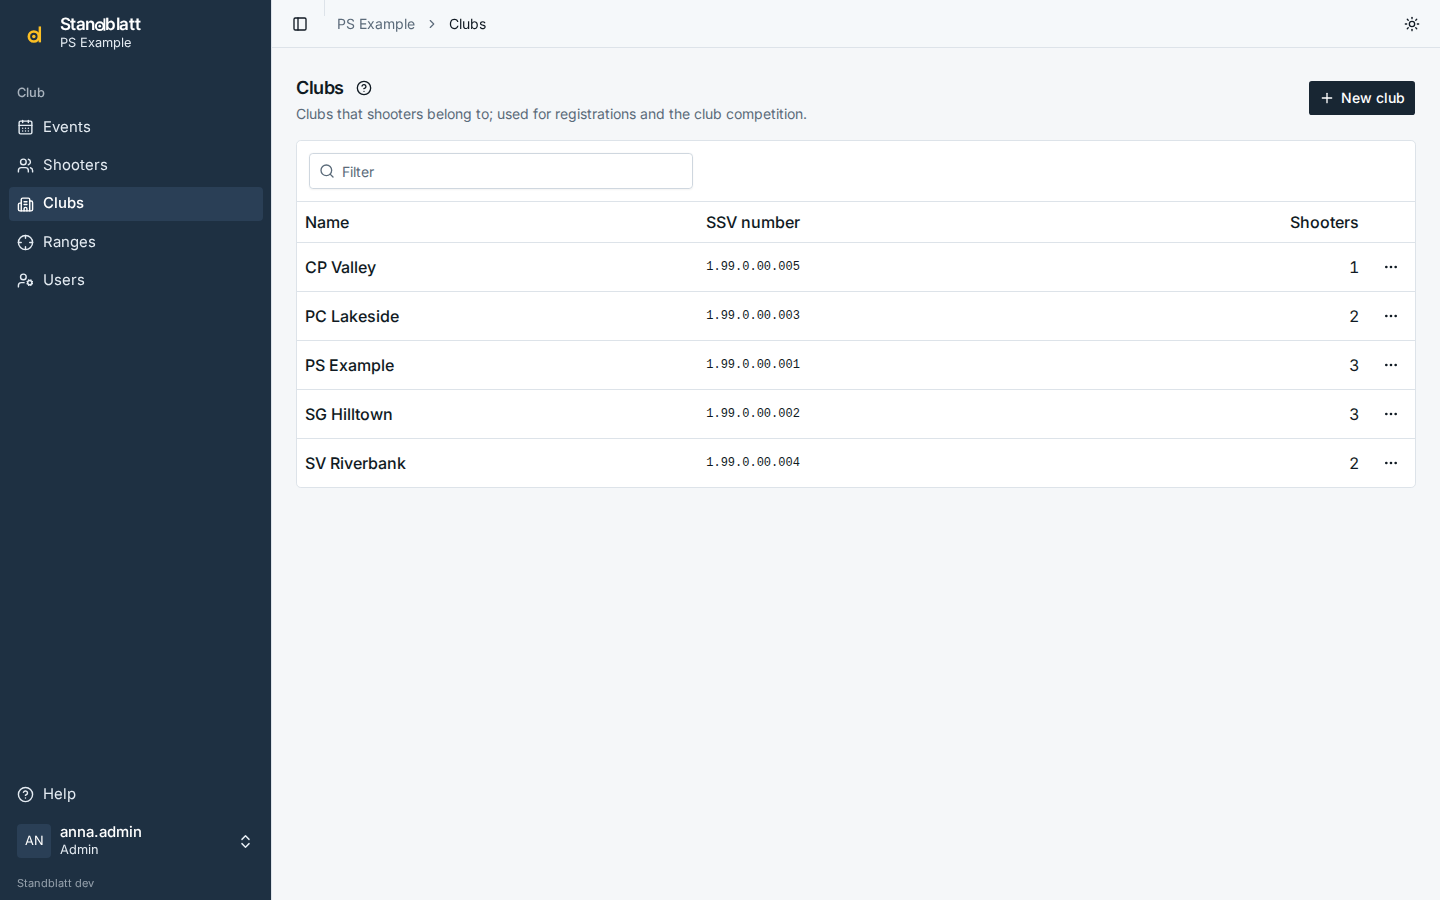
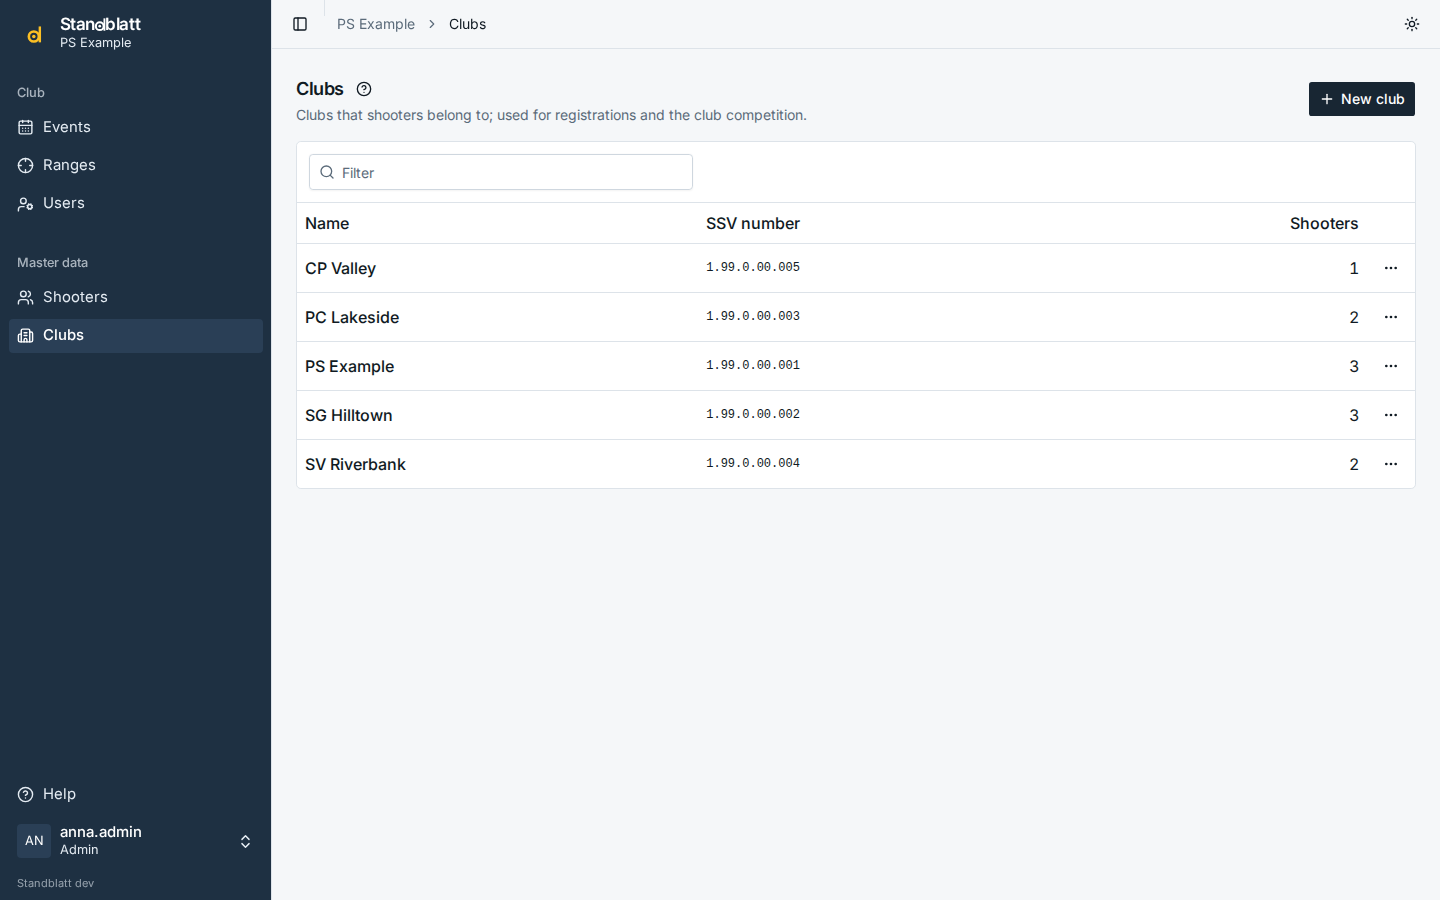
feat(sidebar): group shooters and clubs under master data

diff --git a/web/src/lib/AppSidebar.svelte b/web/src/lib/AppSidebar.svelte
@@ -75,14 +75,16 @@
 	]);
 	const clubItems = $derived([
 		{ href: base, label: $t`Events`, icon: CalendarDays, active: path === base },
-		{ href: `${base}/shooters`, label: $t`Shooters`, icon: Users },
-		{ href: `${base}/clubs`, label: $t`Clubs`, icon: Building },
 		...(isAdmin
 			? [
 					{ href: `${base}/ranges`, label: $t`Ranges`, icon: Crosshair },
 					{ href: `${base}/users`, label: $t`Users`, icon: UserCog }
 				]
 			: [])
+	]);
+	const masterItems = $derived([
+		{ href: `${base}/shooters`, label: $t`Shooters`, icon: Users },
+		{ href: `${base}/clubs`, label: $t`Clubs`, icon: Building }
 	]);
 	const initials = $derived(me.user.name.slice(0, 2).toUpperCase());
 	const sidebar = Sidebar.useSidebar();
@@ -162,6 +164,11 @@
 		<Sidebar.Group>
 			<Sidebar.GroupLabel>{$t`Club`}</Sidebar.GroupLabel>
 			{@render nav(clubItems)}
+		</Sidebar.Group>
+
+		<Sidebar.Group>
+			<Sidebar.GroupLabel>{$t`Master data`}</Sidebar.GroupLabel>
+			{@render nav(masterItems)}
 		</Sidebar.Group>
 	</Sidebar.Content>
 

diff --git a/e2e/tests/kiosk.spec.js b/e2e/tests/kiosk.spec.js
@@ -51,6 +51,10 @@ test.describe("rankings and kiosk", () => {
     const type = async (link) => (await page.request.get(await link.getAttribute("href"))).headers()["content-type"];
     expect(await type(pdf)).toBe("application/pdf");
     expect(await type(csv)).toContain("text/csv");
+
+    const group = (label) => page.locator("[data-sidebar=group]").filter({ has: page.locator("[data-sidebar=group-label]", { hasText: new RegExp(`^${label}$`) }) });
+    await expect(group("Master data").locator("a")).toHaveText(["Shooters", "Clubs"]);
+    await expect(group("Club").locator("a")).toHaveText(["Events", "Ranges", "Users"]);
   });
 
   test("serves a live kiosk display without login", async ({ page, browser }) => {

diff --git a/CHANGELOG.md b/CHANGELOG.md
@@ -12,6 +12,7 @@ and this project adheres to [Semantic Versioning](https://semver.org/spec/v2.0.0
 
 ### Changed
 - Rankings offer PDF and CSV instead of Print; rankings are no longer sent to the range's printer (by @HB9HIL)
+- The sidebar groups Shooters and Clubs under Master data (by @HB9HIL)
 - On phones and tablets PDFs go to the share sheet instead of a new tab (by @HB9HIL)
 - On phones tables show their main columns with the rest below the name, and the setup tabs become a list, so no page scrolls sideways (by @HB9HIL)
 

diff --git a/web/src/help/fr/user-guide/shooters-clubs.md b/web/src/help/fr/user-guide/shooters-clubs.md
@@ -1,7 +1,8 @@
 # Tireurs et sociétés
 
 Chaque société tient ses propres données de base des tireurs ; rien n’est
-partagé avec d’autres sociétés.
+partagé avec d’autres sociétés. **Tireurs** et **Sociétés** se trouvent sous
+**Données de base** dans la barre latérale.
 
 ## Tireurs
 

diff --git a/web/src/help/en/user-guide/shooters-clubs.md b/web/src/help/en/user-guide/shooters-clubs.md
@@ -1,6 +1,6 @@
 # Shooters and clubs
 
-Each club keeps its own shooter master data; nothing is shared with other clubs.
+Each club keeps its own shooter master data; nothing is shared with other clubs. **Shooters** and **Clubs** are under **Master data** in the sidebar.
 
 ## Shooters
 

diff --git a/web/src/help/de/user-guide/shooters-clubs.md b/web/src/help/de/user-guide/shooters-clubs.md
@@ -1,7 +1,8 @@
 # Schützen und Vereine
 
 Jeder Verein führt seine eigenen Schützen-Stammdaten; nichts wird mit
-anderen Vereinen geteilt.
+anderen Vereinen geteilt. **Schützen** und **Vereine** stehen in der
+Seitenleiste unter **Stammdaten**.
 
 ## Schützen
 

diff --git a/web/src/help/it/user-guide/shooters-clubs.md b/web/src/help/it/user-guide/shooters-clubs.md
@@ -1,7 +1,8 @@
 # Tiratori e società
 
 Ogni società gestisce i propri dati di base dei tiratori; niente è condiviso
-con altre società.
+con altre società. **Tiratori** e **Società** si trovano sotto **Dati di
+base** nella barra laterale.
 
 ## Tiratori
 
